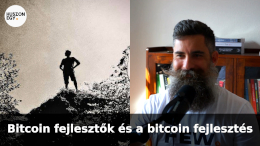
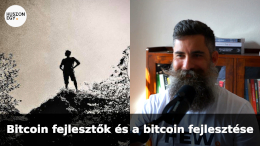
podcast fix

Changed region(s): [[0.0, 0.8219, 0.9846, 0.9315]]

diff --git a/src/data/podcasts.ts b/src/data/podcasts.ts
@@ -2,7 +2,7 @@
 
 export const podcasts = [
     {
-        name: "Bitcoin fejlesztők és a bitcoin fejlesztés",
+        name: "Bitcoin fejlesztők és a bitcoin fejlesztése",
         id: "E43",
         img: "/pics/mi-az-a-bitcoin-s01e43.jpg",
         date: "2024.12.06.",
